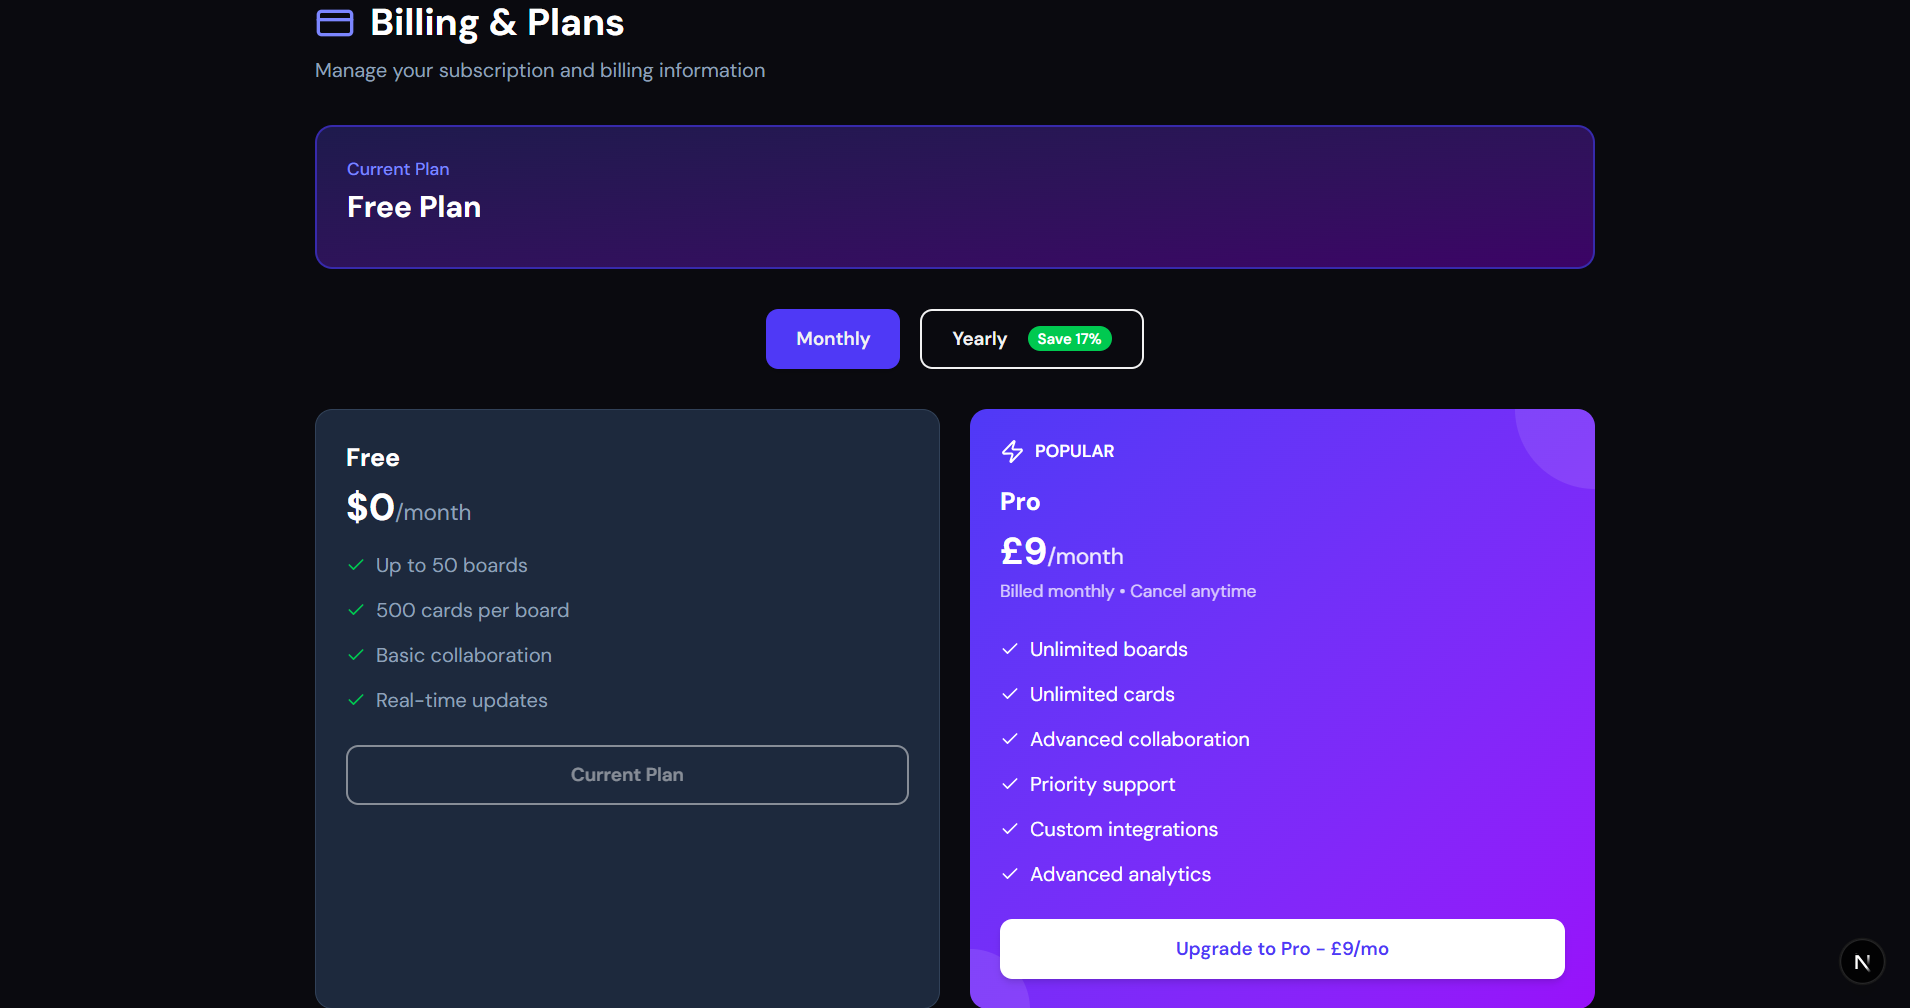
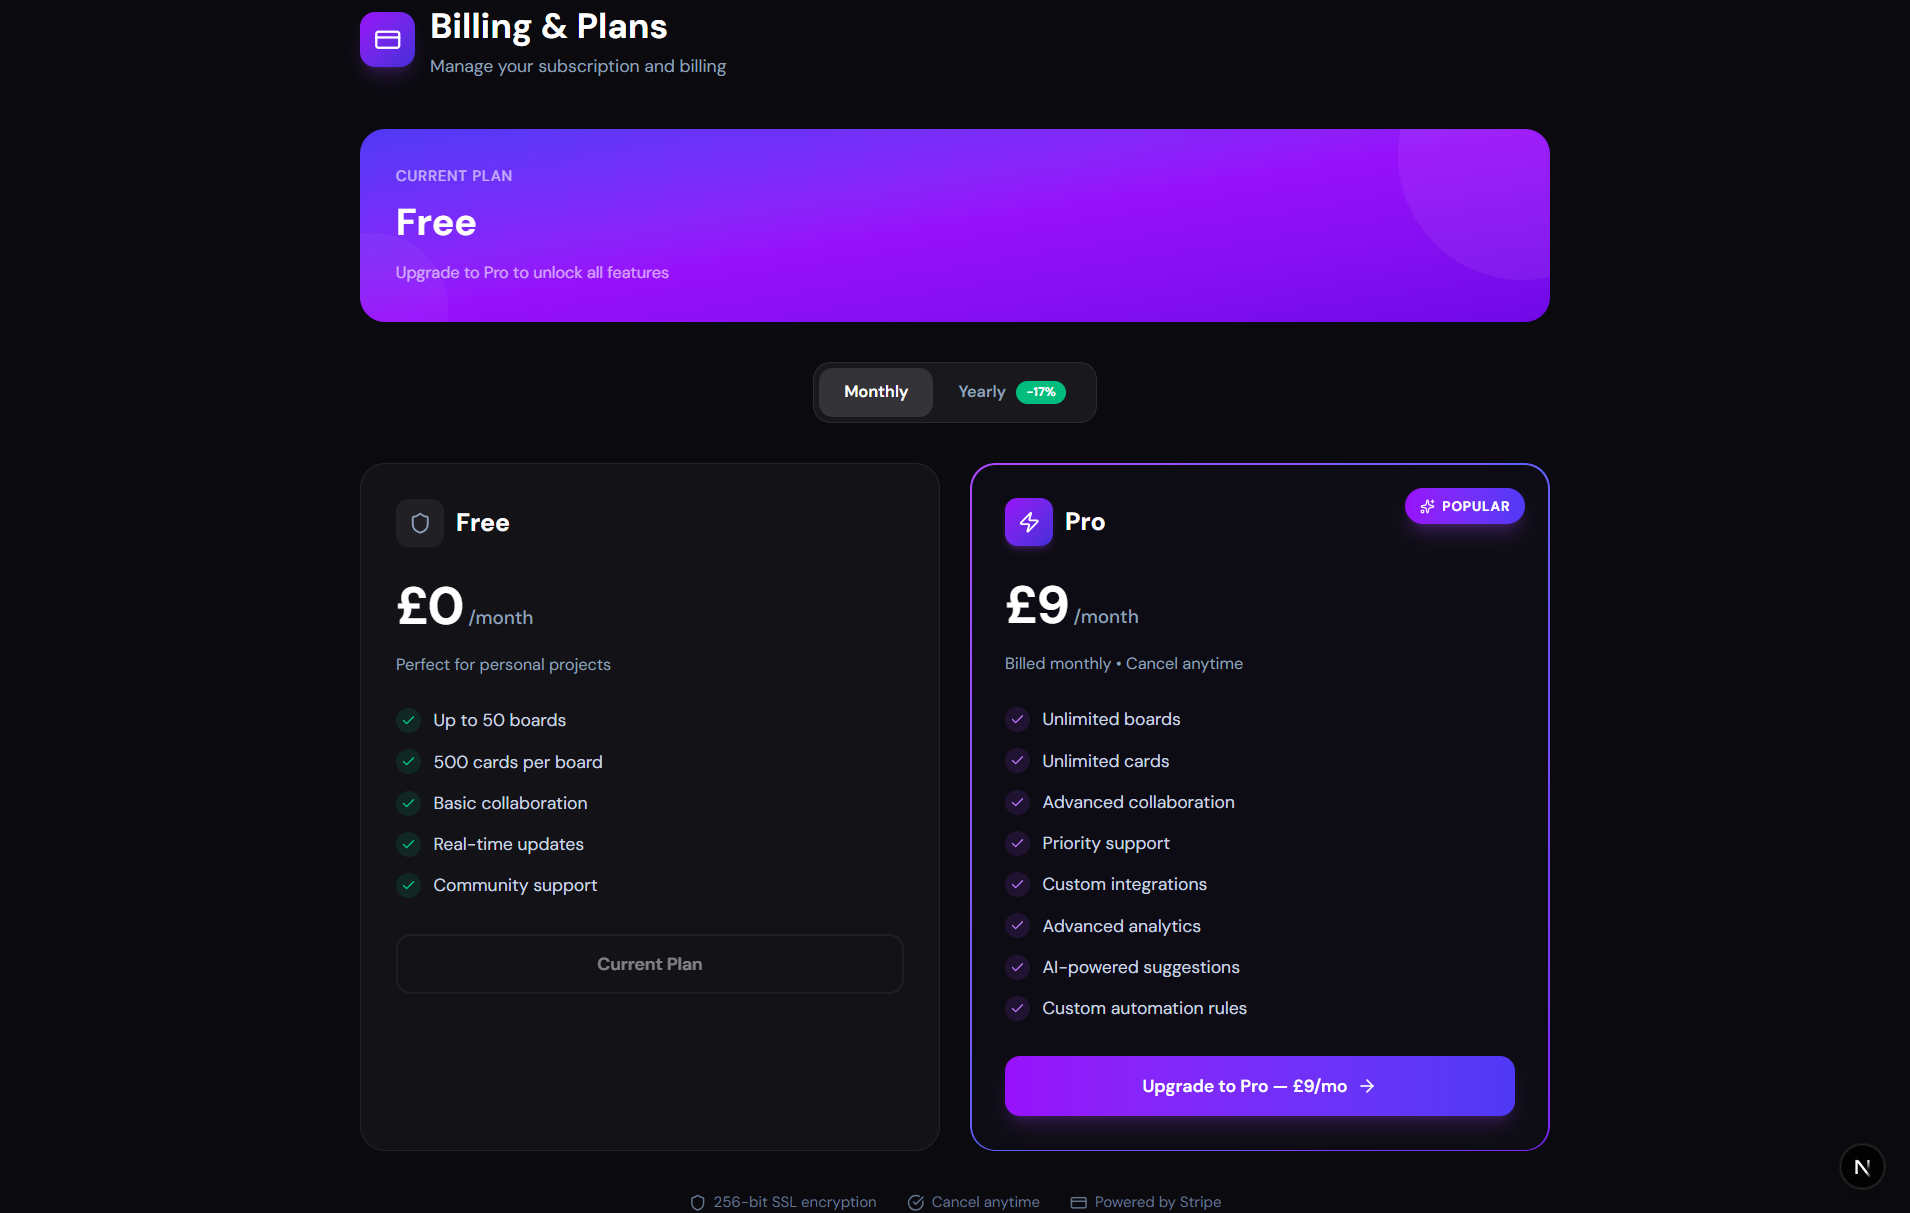
docs: add About page section to README, update screenshots
- Add /about page deep-dive: hero, stat counters, feature cards,
  tech stack grid, build timeline, footer, animation notes
- Add Web-screenshort/About.png
- Update Billing.png, Signin.png, Signup.png

diff --git a/README.md b/README.md
@@ -432,6 +432,37 @@ The core stack (Clerk + Prisma + Stripe + shadcn) appears in many tutorials. Her
 
 ---
 
+### `/about` — About NEXUS
+
+![About](Web-screenshort/About.png)
+
+- Public marketing + engineering showcase page at `/about` — accessible without authentication
+- **Sticky navigation bar** — smooth-scrolls to each section (Overview, Features, Tech Stack, Timeline); highlights the active section as the user scrolls using an `IntersectionObserver`
+- **Hero section** — full-screen canvas particle background (WebGL-inspired JS canvas), animated headline with gradient text (`from-violet-400 via-purple-300 to-indigo-400`), subtitle with typewriter reveal, and two CTAs: "View Source" (GitHub) and "Get Started"  
+- **Animated stat counters** — 6 live-animating numbers that count up when scrolled into view:
+  - `57+` API Routes
+  - `28+` RBAC Permissions
+  - `5` Board Views (Kanban · Table · Timeline · Calendar · Analytics)
+  - `1,512+` Tests Written
+  - `99.9%` Uptime SLA
+  - `<50ms` Real-time Latency
+- **Feature cards grid** — 8 engineering highlight cards with icon, tag badge, and description:
+  - Zero-trust Multi-tenancy (orgId always from signed Clerk JWT, RLS at row level)
+  - Sub-50ms Real-time (Supabase WebSocket broadcast)
+  - AI-Powered Workflows (GPT-4o + DOMPurify sanitisation)
+  - Dual-Gate RBAC (org role × board role — neither alone grants access)
+  - LexoRank Ordering (one DB row updated per move, same algorithm as Jira)
+  - Webhook Automation Engine (HMAC-SHA256 signing + SSRF blocklist)
+  - Stripe Billing + Step-up Auth (Clerk re-auth on destructive billing actions)
+  - Sprint & Analytics (burndown, velocity, cumulative flow via Recharts 3.7)
+- **Technology stack grid** — 12 library cards each showing name, version, role, and a colour-coded badge: Next.js 16, React 19, TypeScript 5, Prisma 5.22, Clerk 6.36, Supabase 2.91, Stripe v20, Framer Motion 12.29, Tailwind CSS v4, Zod 4.3, OpenAI SDK 4.104, Sentry 10.36
+- **Build timeline** — 6-phase horizontal scroll timeline (Q1 2024 → 2025+): Architecture Born → Core Engine → Real-time + AI → Enterprise Layer → Test Coverage → Production Ready
+- **Footer** — links to GitHub repository, LinkedIn profile, and a "View Source" CTA
+- Fully animated with Framer Motion scroll-reveal; all motion wrapped in `useReducedMotion()` check for WCAG 2.3.3 compliance
+- Server Component wrapper (`app/about/page.tsx`) with full OpenGraph metadata; the `AboutPage` client component handles canvas, counters, and scroll-driven animations
+
+---
+
 ### `/sign-in` — Sign In
 
 - Clerk-managed authentication at `[[...sign-in]]` catch-all route
